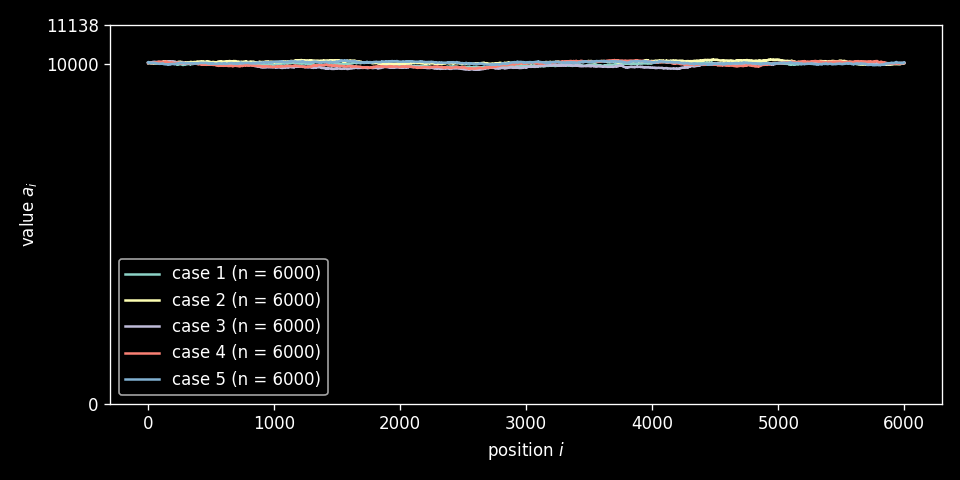
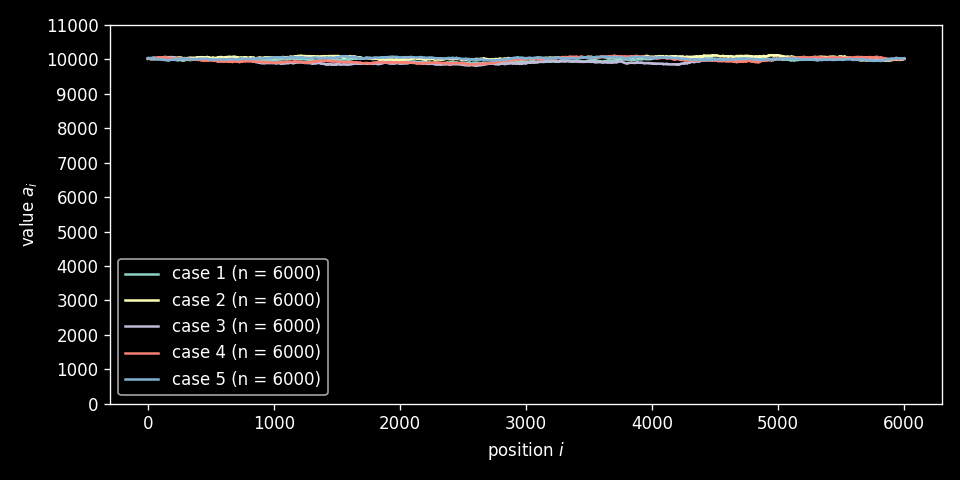
Add more ticks for plotting script

diff --git a/_posts/embed-contents/2022-02-19-test-generation-guide/plot-test.py b/_posts/embed-contents/2022-02-19-test-generation-guide/plot-test.py
@@ -20,11 +20,13 @@ with open(test_filename, 'r') as f:
         a = list(map(int, f.readline().split()))
         plt.plot(a, label=f"case {testcase} (n = {n})")
         max_val = max(max_val, *a)
-    p10 = 10 ** int(math.log10(max_val))
-    plt.xlabel("position $i$")
-    plt.ylabel("value $a_i$")
-    plt.yticks([0, p10, max_val * 1.1])
-    plt.legend()
-    plt.tight_layout()
-    plt.savefig(out_img_fullname)
-    # plt.show()
+p10 = 10 ** int(math.log10(max_val))
+ceiling = int(max_val * 1.1)
+yticks = [i for i in range(0, ceiling, p10 // 10)]
+plt.xlabel("position $i$")
+plt.ylabel("value $a_i$")
+plt.yticks(yticks)
+plt.legend()
+plt.tight_layout()
+plt.savefig(out_img_fullname)
+# plt.show()
